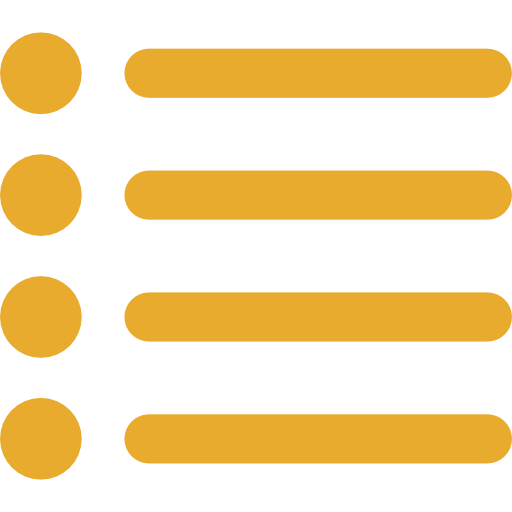
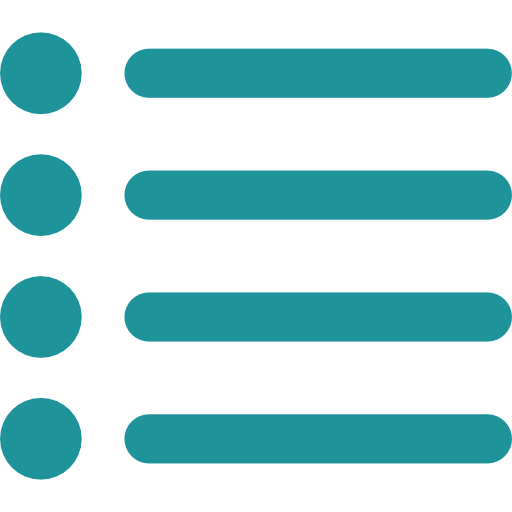
Updated to Uffizi name
Removed references to “Plex” in the name of the app.  App is now
Uffizi.  Also changed color scheme to remove orange which was too much
like Plex.

diff --git a/html/header.html b/html/header.html
@@ -1,5 +1,5 @@
-## PlexArt - View all of the artwork for Plex sections at once
-## Copyright (C) 2016  Jason Ellis
+## Uffizi - View all of the artwork for Plex sections at once
+## Copyright (C) 2016 Jason Ellis
 ##
 ## This program is free software: you can redistribute it and/or modify
 ## it under the terms of the GNU General Public License as published by
@@ -14,7 +14,7 @@
 ## You should have received a copy of the GNU General Public License
 ## along with this program.  If not, see <http://www.gnu.org/licenses/>.
 
-<%page args="page_js, title, header='PlexArt', js_script=''"/>
+<%page args="page_js, title, header='Uffizi', js_script=''"/>
 <!DOCTYPE html>
 <html lang="en">
     <head>
@@ -31,16 +31,16 @@
                 
         ${js_script}
         
-        <title>PlexArt${title}</title>
+        <title>Uffizi${title}</title>
     </head>
     <body>
         <noscript>
             <div id="alert">
-                <a class="alert" href="#alert">PlexArt requires JavaScript.  Enable JavaScript in your browser's settings.</a>
+                <a class="alert" href="#alert">Uffizi requires JavaScript.  Enable JavaScript in your browser's settings.</a>
             </div>    
         </noscript>
         <div id="header">
-            <div class="header_left"><a class="header_link" href="..">PlexArt</a>${header}</div>
-            <div class="header_right"><a href=".."><img src="static/images/plexart.png" height="40" width="40"></a></div>
+            <div class="header_left"><a class="header_link" href="..">Uffizi</a>${header}</div>
+            <div class="header_right"><a href=".."><img src="static/images/uffizi.png" height="40" width="40"></a></div>
         </div>
         

diff --git a/static/css/style.css b/static/css/style.css
@@ -1,5 +1,5 @@
-/* PlexArt - View all of the artwork for Plex sections at once           
-   Copyright (C) 2016  Jason Ellis                                       
+/* Uffizi - View all of the artwork for Plex sections at once           
+   Copyright (C) 2016 Jason Ellis                                       
                                                                          
    This program is free software: you can redistribute it and/or modify  
    it under the terms of the GNU General Public License as published by  
@@ -54,7 +54,7 @@ a:focus {
 }
 
 #header {
-  color: #e8ab2d;
+  color: #1E949A;
   background: #000000;
   top: 0;
   right: 0;
@@ -66,7 +66,7 @@ a:focus {
 
 .header_link:link,
 .header_link:visited {
-  color: #e8ab2d;
+  color: #1E949A;
 }
 
 .header_left {
@@ -310,7 +310,7 @@ a:focus {
 input[type=submit],
 input[type=button] {
   width: 100%;
-  background-color: #e8ab2d;
+  background-color: #1E949A;
   border: none;
   color: #ffffff;
   text-decoration: none;
@@ -371,7 +371,7 @@ input[type=password] {
 
 .prior_server:hover,
 .prior_server:focus {
-  background: #e8ab2d;
+  background: #1E949A;
 }
 
 .prior_title {

diff --git a/html/body.html b/html/body.html
@@ -1,5 +1,5 @@
-## PlexArt - View all of the artwork for Plex sections at once
-## Copyright (C) 2016  Jason Ellis
+## Uffizi - View all of the artwork for Plex sections at once
+## Copyright (C) 2016 Jason Ellis
 ##
 ## This program is free software: you can redistribute it and/or modify
 ## it under the terms of the GNU General Public License as published by
@@ -123,12 +123,12 @@
                 ## other is 150. 
                 if page_type == 'show':
                     season_class = 'season_block_tv'
-                    image_name = 'emptyTVThumb.jpg'
+                    image_name = 'emptyTVThumb.png'
                     image_height = '150'
             
                 if page_type == 'artist':
                     season_class = 'season_block_music'
-                    image_name = 'emptyMusicThumb.jpg'
+                    image_name = 'emptyMusicThumb.png'
                     image_height = '100'
                     
             if display_mode == 'list':

diff --git a/html/sign_in.html b/html/sign_in.html
@@ -1,5 +1,5 @@
-## PlexArt - View all of the artwork for Plex sections at once
-## Copyright (C) 2016  Jason Ellis
+## Uffizi - View all of the artwork for Plex sections at once
+## Copyright (C) 2016 Jason Ellis
 ##
 ## This program is free software: you can redistribute it and/or modify
 ## it under the terms of the GNU General Public License as published by
@@ -40,7 +40,7 @@
                 </div>
                 
                 <div class="form_server">
-                    <p>PlexArt does not store you username and password.  It is only needed in order to get a token from plex.tv which is required for PlexArt to access your server.</p>
+                    <p>Uffizi does not store you username and password.  It is only needed in order to get a token from plex.tv which is required for Uffizi to access your server.</p>
                 </div>
             </div>
         </div>

diff --git a/static/js/home.js b/static/js/home.js
@@ -1,5 +1,5 @@
-// PlexArt - View all of the artwork for Plex sections at once             
-// Copyright (C) 2016  Jason Ellis                                         
+// Uffizi - View all of the artwork for Plex sections at once             
+// Copyright (C) 2016 Jason Ellis                                         
 //                                                                         
 // This program is free software: you can redistribute it and/or modify    
 // it under the terms of the GNU General Public License as published by    
@@ -41,7 +41,7 @@ function validateForm() {
     return false;
   }
   
-  var plexURL = 'http://' + serverName + ':' + serverPort + '/library/'
+  //var plexURL = 'http://' + serverName + ':' + serverPort + '/library/'
   
   // Validate that the server and port combination leads to Plex.
   $.ajax({

diff --git a/static/js/sign_in.js b/static/js/sign_in.js
@@ -1,5 +1,5 @@
-// PlexArt - View all of the artwork for Plex sections at once             
-// Copyright (C) 2016  Jason Ellis                                         
+// Uffizi - View all of the artwork for Plex sections at once             
+// Copyright (C) 2016 Jason Ellis                                         
 //                                                                         
 // This program is free software: you can redistribute it and/or modify    
 // it under the terms of the GNU General Public License as published by    

diff --git a/static/js/section.js b/static/js/section.js
@@ -1,5 +1,5 @@
-// PlexArt - View all of the artwork for Plex sections at once          
-// Copyright (C) 2016  Jason Ellis                                      
+// Uffizi - View all of the artwork for Plex sections at once          
+// Copyright (C) 2016 Jason Ellis                                      
 //                                                                      
 // This program is free software: you can redistribute it and/or modify 
 // it under the terms of the GNU General Public License as published by 

diff --git a/html/footer.html b/html/footer.html
@@ -1,5 +1,5 @@
-## PlexArt - View all of the artwork for Plex sections at once
-## Copyright (C) 2016  Jason Ellis
+## Uffizi - View all of the artwork for Plex sections at once
+## Copyright (C) 2016 Jason Ellis
 ##
 ## This program is free software: you can redistribute it and/or modify
 ## it under the terms of the GNU General Public License as published by

diff --git a/html/home.html b/html/home.html
@@ -1,5 +1,5 @@
-## PlexArt - View all of the artwork for Plex sections at once
-## Copyright (C) 2016  Jason Ellis
+## Uffizi - View all of the artwork for Plex sections at once
+## Copyright (C) 2016 Jason Ellis
 ##
 ## This program is free software: you can redistribute it and/or modify
 ## it under the terms of the GNU General Public License as published by

diff --git a/html/navbar.html b/html/navbar.html
@@ -1,5 +1,5 @@
-## PlexArt - View all of the artwork for Plex sections at once
-## Copyright (C) 2016  Jason Ellis
+## Uffizi - View all of the artwork for Plex sections at once
+## Copyright (C) 2016 Jason Ellis
 ##
 ## This program is free software: you can redistribute it and/or modify
 ## it under the terms of the GNU General Public License as published by

diff --git a/html/server.html b/html/server.html
@@ -1,5 +1,5 @@
-## PlexArt - View all of the artwork for Plex sections at once
-## Copyright (C) 2016  Jason Ellis
+## Uffizi - View all of the artwork for Plex sections at once
+## Copyright (C) 2016 Jason Ellis
 ##
 ## This program is free software: you can redistribute it and/or modify
 ## it under the terms of the GNU General Public License as published by

diff --git a/html/section.html b/html/section.html
@@ -1,6 +1,6 @@
 <%doc>
-PlexArt - View all of the artwork for Plex sections at once
-Copyright (C) 2016  Jason Ellis
+Uffizi - View all of the artwork for Plex sections at once
+Copyright (C) 2016 Jason Ellis
 
 This program is free software: you can redistribute it and/or modify
 it under the terms of the GNU General Public License as published by
